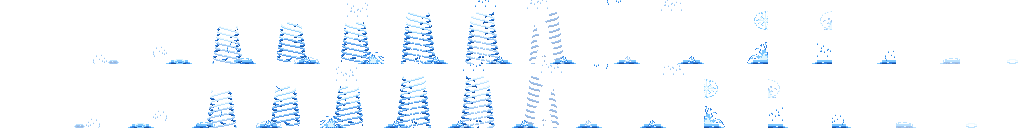
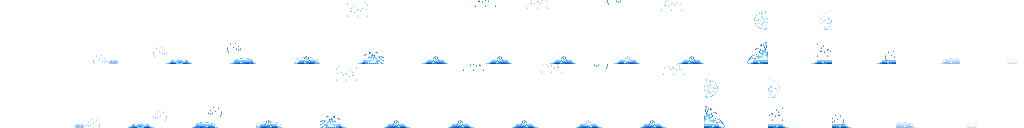
Water Dragon v3: serpent coils 1.5 turns round the caster (behind/in front) before arcing to the target; analytic dragon head and scaled body (serpent_draw3)
Claude-Session: https://claude.ai/code/session_01Szh5twrDqcGJwGExsJgbhd

Changed region(s): [[0.1875, 0.5938, 0.5625, 1.0], [0.1875, 0.0938, 0.5625, 0.5]]

diff --git a/tools/astro.py b/tools/astro.py
@@ -5360,6 +5360,150 @@ CLIPS['waterDragonSwallowed'] = ('Water Dragon Swallowed', 0,
                  11: [('wPuddleL', 'feet', 0, -1, _A(_FADE))]}))
 
 
+# Water Dragon v3 (Christopher 2026-11-05 15:38: the dragon needs to look better and swirl round the caster before arcing over to the target): a new look and a new path. Path: the serpent bursts out of the pool in front of the caster, coils 1.5 turns up round the caster's body (passing behind it on the far side, in front of it on the near side) to rear high above it, then arcs over to the target. Look: a proper dragon head drawn analytically at any angle (long snout, hinged jaw with fangs, glowing eye under a brow ridge, branching horns, a mane of fins, two long whiskers), and a scaled tube body (chevron scales, ice ridge, deep belly, dorsal fins every 7 px, shimmering glints), darker where it passes behind the caster.
+def serpent_path3(rec, S, E):   # -> (P(u) -> (x, y, depth, tx, ty), uc): arc-length parametrised; u 0-uc the coil round the caster, uc-1 the arc to the target. S the pool point (rec['pool'] px in front of the caster's feet, on the floor), E the target's chest
+    c = rec['coil']; Cx = S[0] - rec.get('pool', 16); R = c['radius']; H = c['height']; tn = c['turns']
+    ph0 = math.asin(max(-1, min(1, (S[0] - Cx) / R))); pts = []
+    for i in range(301):
+        v = i / 300; ph = ph0 + 2 * math.pi * tn * v
+        pts.append((Cx + R * math.sin(ph) * (1 - 0.25 * v), S[1] - H * v ** 0.85, math.cos(ph)))
+    T = pts[-1]; dx_, dy_ = pts[-1][0] - pts[-6][0], pts[-1][1] - pts[-6][1]; n_ = math.hypot(dx_, dy_) or 1
+    C1 = (T[0] + dx_ / n_ * 30, T[1] + dy_ / n_ * 30 - 10); C2 = (E[0] - 14, E[1] - rec.get('dive', 70))
+    for i in range(1, 301):
+        u = i / 300; d0 = T[2] + (1 - T[2]) * min(1, u / 0.25)
+        pts.append(tuple((1 - u) ** 3 * T[j] + 3 * (1 - u) ** 2 * u * C1[j] + 3 * (1 - u) * u * u * C2[j] + u ** 3 * E[j] for j in (0, 1)) + (d0,))
+    L = [0.0]
+    for a, b in zip(pts, pts[1:]): L.append(L[-1] + math.hypot(b[0] - a[0], b[1] - a[1]))
+    tot = L[-1]; uc = L[300] / tot
+    def P(u):
+        s = max(0.0, min(1.0, u)) * tot; import bisect
+        i = min(len(pts) - 2, max(0, bisect.bisect_right(L, s) - 1)); f = (s - L[i]) / max(1e-6, L[i + 1] - L[i])
+        a, b = pts[i], pts[i + 1]; tx, ty = b[0] - a[0], b[1] - a[1]; m = math.hypot(tx, ty) or 1
+        return (a[0] + (b[0] - a[0]) * f, a[1] + (b[1] - a[1]) * f, a[2] + (b[2] - a[2]) * f, tx / m, ty / m)
+    P.tot = tot
+    return P, uc
+def _seg_d(px, py, ax, ay, bx, by):
+    vx, vy = bx - ax, by - ay; t = max(0, min(1, ((px - ax) * vx + (py - ay) * vy) / (vx * vx + vy * vy or 1)))
+    return math.hypot(px - ax - vx * t, py - ay - vy * t)
+def _in_poly(x, y, poly):
+    ins = False; j = len(poly) - 1
+    for i in range(len(poly)):
+        xi, yi = poly[i]; xj, yj = poly[j]
+        if (yi > y) != (yj > y) and x < (xj - xi) * (y - yi) / (yj - yi) + xi: ins = not ins
+        j = i
+    return ins
+def dragon_head3(lay, cx, cy, tx, ty, jaw, k=0, s=1.25, dark=False):   # the dragon's head at (cx, cy) heading along (tx, ty); jaw 0-1 open; local frame: f forward, n up (screen-upward side)
+    nx, ny = ty, -tx
+    if ny > 0: nx, ny = -nx, -ny
+    hexc = lambda c: tuple(int(NPAL[c][i:i + 2], 16) for i in (1, 3, 5)) + (255,)
+    a = -0.6 * jaw; ca, sa = math.cos(a), math.sin(a)   # opens downward
+    def rj(p):   # the lower jaw rotated open about its hinge (3, -1)
+        f0, n0 = p[0] - 3, p[1] + 1; return (3 + f0 * ca - n0 * sa, -1 + f0 * sa + n0 * ca)
+    upper = [(-2, 5), (4, 5.6), (8, 4.4), (14, 3.0), (18, 2.8), (20, 1.6), (20, -0.6), (4, -0.8), (-2, -1)]
+    lower = [rj(p) for p in [(3, -1), (18, -1), (18, -2.4), (12, -3.4), (4, -4.4), (0, -3.5)]]
+    mouth = [(3, -1), (19, -0.8), rj((18, -1)), rj((4, -1.2))]
+    horns = [((-3, 4.5), (-13, 11)), ((-8, 7.6), (-9, 12)), ((-1, 4), (-11, 7)), ((-6.5, 5.6), (-7, 9))]
+    sway = math.sin(k * 1.1) * 1.5
+    whisk = [[(17, 0.3), (12, -5), (4, -8 + sway), (-6, -9 + sway), (-14, -7 + sway)], [(16, 1.8), (11, 5.5), (2, 9 - sway), (-6, 13 - sway)]]
+    fins = [[(-1, 4.2), (-9, 3 + sway * 0.5), (-4, 1.5)], [(-3, 1), (-12, -1 + sway * 0.5), (-5, -2.2)], [(-2, -2.5), (-9, -6 + sway * 0.5), (-1, -4)]]
+    R = int(22 * s); X0, Y0 = int(cx) - R, int(cy) - R; W_, H_ = lay.size; lp = lay.load(); got = {}
+    for yy in range(2 * R + 1):
+        for xx in range(2 * R + 1):
+            X, Y = X0 + xx, Y0 + yy
+            if not (0 <= X < W_ and 0 <= Y < H_): continue
+            dx, dy = (X - cx) / s, (Y - cy) / s; f = dx * tx + dy * ty; n = dx * nx + dy * ny
+            ch = None
+            if any(_in_poly(f, n, q) for q in fins): ch = 'A' if dark else 'a'
+            for (p, q) in horns:
+                if _seg_d(f, n, p[0], p[1], q[0], q[1]) < 0.9: ch = 'W' if math.hypot(f - q[0], n - q[1]) < 1.6 else 'I'
+            if ((f + 1) / 6.5) ** 2 + (n / 5.2) ** 2 <= 1 or _in_poly(f, n, upper): ch = 'U'
+            if _in_poly(f, n, lower): ch = 'L'
+            if _in_poly(f, n, mouth) and jaw > 0.05: ch = 'M'
+            for wl in whisk:
+                if any(_seg_d(f, n, *wl[i], *wl[i + 1]) < 0.55 for i in range(len(wl) - 1)): ch = ch or 'I'
+            if ch: got[(X, Y)] = (ch, f, n)
+    for (X, Y), (ch, f, n) in got.items():
+        edge = any((X + a_, Y + b_) not in got for a_, b_ in ((1, 0), (-1, 0), (0, 1), (0, -1)))
+        if ch == 'U':
+            c = 'n' if edge else 'I' if n > 3.3 or (n > 1.2 and f > 15) else 'W' if abs(f - 5) < 1.3 and abs(n - 3.4) < 0.8 else 'a'
+            if math.hypot(f - 4.6, n - 2.0) < 0.9: c = 'W'                       # the eye, glowing white
+            elif math.hypot(f - 4.6, n - 2.0) < 1.6: c = 'I'
+            elif math.hypot(f - 16.6, n - 1.9) < 0.6: c = 'n'                    # nostril
+            elif abs(n - 3.9) < 0.6 and 2 < f < 8: c = 'A'                         # brow ridge
+            elif 6 < f < 19 and -0.8 < n < 0.4 and int(f) % 3 == 0: c = 'W'   # upper fangs
+            if dark and c in 'aI': c = {'a': 'A', 'I': 'a'}[c]
+        elif ch == 'L':
+            c = 'n' if edge else 'W' if 6 < f < 18 and int(f) % 3 == 1 and _in_poly(f, n + 0.9, lower) is False else 'A'
+        elif ch == 'M': c = 'n'
+        else: c = 'n' if edge and ch in 'aA' else ch
+        lp[X, Y] = hexc(c)
+def serpent_draw3(img, rec, k, S, E, flip=False, layer='all', occl=None):   # reference drawing of a v3 extra.serpent (coil) for frame k; layer 'behind' (the parts behind the caster, depth < 0; skips pixels where occl, the caster's own silhouette, is drawn), 'front' or 'all'
+    from PIL import Image
+    fr = rec['frames'].get(str(k))
+    if not fr: return
+    uh, ut, jaw = fr[0], fr[1], fr[2] if len(fr) > 2 else 0.5
+    P, uc = serpent_path3(rec, S, E); hexc = lambda c: tuple(int(NPAL[c][i:i + 2], 16) for i in (1, 3, 5)) + (255,)
+    lay = Image.new('RGBA', img.size); lp = lay.load(); Wd, Hd = img.size; G = rec.get('girth', 7.0)
+    uhb = min(uh, 1.0 if uh <= 1 else rec.get('pourStop', 0.9)); tot = P.tot
+    want = (lambda d: d < 0) if layer == 'behind' else (lambda d: d >= 0) if layer == 'front' else (lambda d: True)
+    if uhb > ut:
+        n = max(2, int((uhb - ut) * tot / 0.7)); paint = {}
+        for i in range(n + 1):
+            u = ut + (uhb - ut) * i / n; x, y, d, tx, ty = P(u); w = (u - ut) / max(0.01, min(uh, 1.0) - ut)
+            r = 1.2 + G * max(0.0, min(1.0, w)) ** 0.6 * (1 - 0.25 * max(0, w - 0.9) * 10 if uh <= 1 else 1)
+            if not want(d): continue
+            nx, ny = ty, -tx
+            if ny > 0: nx, ny = -nx, -ny
+            sl = u * tot
+            for yy in range(int(y - r - 1), int(y + r + 2)):
+                for xx in range(int(x - r - 1), int(x + r + 2)):
+                    if 0 <= xx < Wd and 0 <= yy < Hd and (xx - x) ** 2 + (yy - y) ** 2 <= r * r:
+                        paint[(xx, yy)] = (sl, ((xx - x) * nx + (yy - y) * ny) / max(1, r), r, d)
+            if int(sl) % 7 == 0 and r > 3 and int(sl * 10) % 70 < 7:   # dorsal fins along the top side
+                for t in range(1, 5):
+                    for wv in range(-max(0, 2 - t // 2), max(0, 2 - t // 2) + 1):
+                        X, Y = round(x + nx * (r + t) - tx * (t * 0.8) + tx * wv * 0.5), round(y + ny * (r + t) - ty * (t * 0.8) + ty * wv * 0.5)
+                        if 0 <= X < Wd and 0 <= Y < Hd: paint.setdefault((X, Y), (sl, 2.0 if t < 4 else 3.0, r, d))
+        for (X, Y), (sl, dn, r, d) in paint.items():
+            if occl is not None and layer == 'behind' and occl.getpixel((X, Y))[3]: continue
+            edge = any((X + a_, Y + b_) not in paint for a_, b_ in ((1, 0), (-1, 0), (0, 1), (0, -1)))
+            back = d < 0
+            if dn >= 2: c = 'W' if dn >= 3 else ('a' if back else 'I')
+            elif edge: c = 'n'
+            elif dn > 0.6: c = 'a' if back else 'I'
+            elif dn < -0.5: c = 'n' if back else 'A'
+            elif ((sl - abs(dn) * r * 0.9) % 5) < 1.0: c = 'n' if back else 'A'      # chevron scales pointing at the head
+            elif ((sl + 3 * k) % 11) < 1.0 and dn > 0.1: c = 'I' if back else 'W'   # glints running along the back
+            else: c = 'A' if back else 'a'
+            lp[X, Y] = hexc(c)
+        for j in range(0, int((uhb - ut) * tot), 13):   # drops shed off the belly
+            u = ut + j / tot; x, y, d, tx, ty = P(u)
+            if not want(d): continue
+            for q in (4, 7, 11):
+                X, Y = int(x - tx * q * 0.3), int(y + 6 + q + (k % 3))
+                if 0 <= X < Wd and 0 <= Y < Hd and (X, Y) not in paint: lp[X, Y] = hexc('a' if q < 11 else 'I')
+    if uh <= 1.0:
+        x, y, d, tx, ty = P(uh)
+        if want(d): dragon_head3(lay, x + tx * 6, y + ty * 6, tx, ty, jaw, k, rec.get('headScale', 1.25), dark=d < 0)
+    if flip: lay = lay.transpose(Image.FLIP_LEFT_RIGHT)
+    img.alpha_composite(lay)
+_WD2 = CLIPS['waterDragon']; _WX = _WD2[6]
+CLIPS['waterDragon'] = (_WD2[0], 13, _WD2[2].replace('Water Dragon v2 (', 'Water Dragon v3 (').replace('the serpent bursts up out of the pool, horned head rising and rearing high over the caster, jaws opening; it holds both arms overhead, trembling, while the serpent rears and roars over it, then coils back to strike',
+    'the serpent bursts up out of the pool and swirls up round the fighter\'s body, one and a half turns, passing behind it and in front of it as it climbs, horned head rising and rearing high above it, jaws opening; it holds both arms overhead, trembling, while the serpent rears and roars over it, then draws back to strike'),
+  _WD2[3], _WD2[4], _WD2[5],
+  {**_WX, 'extra': {**_WX['extra'], 'serpent': {
+     'rule': 'Water Dragon v3 (Christopher 2026-11-05 15:38: the dragon must look better and swirl round the caster before arcing over to the target). Drawn by the testbed each frame; reference implementation astro.serpent_draw3 (port it). Path (scene px, mirrored for W): S = the pool, pool px in front of the caster\'s feet on the floor; E = the target\'s chest (26 px above its floor). First a coil round the caster: centre x = S.x - pool, angle ph from asin((S.x - centre)/radius) through turns * 360 degrees, x = centre + radius * sin(ph) * (1 - 0.25 v), y = S.y - height * v^0.85 for v 0-1, depth cos(ph) (< 0: behind the caster, drawn behind it and darker; >= 0 in front); then a cubic arc from the coil top T (C1 30 px on along the coil\'s last heading and 10 px up, C2 14 px short of E and dive px above it) to E, its depth easing to front. u is arc length along the whole path (0-1). frames[k] = [uHead, uTail, jaw 0-1]: body = a tube from uTail to min(uHead, 1) (pourStop once uHead > 1), radius 1.2 at the tail growing to 1.2 + girth at the head end; per pixel: outline n, top (dn > 0.6) ice I, belly (dn < -0.5) deep A, chevron scales A every 5 px along, glints W running along the back (+3 px per frame), dorsal fins every 7 px (I, white tips), drops falling off the belly; behind-the-caster parts use the darker set (A body, a top, n scales/belly). Head (dragon_head3, headScale) drawn 6 px ahead of uHead along the heading while uHead <= 1: long snout, hinged lower jaw (jaw opens it), white fangs, glowing white eye under a deep brow, two branching ice horns, a mane of three fins and two long whiskers swaying per frame.',
+     'pool': 16, 'coil': {'radius': 18, 'height': 84, 'turns': 1.5}, 'dive': 70, 'girth': 7, 'headScale': 1.8, 'pourStop': 0.9,
+     'frames': {'3': [0.03, 0.0, 0.2], '4': [0.08, 0.0, 0.2], '5': [0.15, 0.0, 0.4], '6': [0.23, 0.0, 0.5], '7': [0.31, 0.0, 0.8], '8': [0.37, 0.0, 1.0], '9': [0.41, 0.0, 1.0], '10': [0.39, 0.0, 0.6],
+                '11': [0.6, 0.02, 1.0], '12': [0.74, 0.06, 1.0], '13': [1.0, 0.22, 0.1], '14': [1.25, 0.5, 0.0], '15': [1.5, 0.8, 0.0]}}}})
+_WA3 = {k: [it for it in v if not it[0].startswith('wSpout')] for k, v in CLIPS['waterDragon'][6]['anchored'].items()}
+CLIPS['waterDragon'][6]['anchored'] = {k: v for k, v in _WA3.items() if v}   # v3: the serpent's own coil swirls round the caster, so the Tsunami spout is gone
+_sd_v1 = serpent_draw
+def serpent_draw(img, rec, k, S, E, flip=False, layer='all', occl=None):   # dispatch: v3 coil records to serpent_draw3, older records to the v1/v2 drawing (front only)
+    if rec.get('coil'): return serpent_draw3(img, rec, k, S, E, flip, layer, occl)
+    if layer != 'behind': return _sd_v1(img, rec, k, S, E, flip)
+
+
 # ---------- Pisces (Water) genjutsu v1 (part 16, 2026-11-05): Siren's Lure, Escapism ----------
 # Pisces genjutsu are songs: notes of water flow from the singer's mouth and palm to the target (testbed projectile volley, impact-frame rule)
 def _note(n, cols='aIn'):   # a musical note of water: n 1 an eighth note, n 2 two beamed notes; cols = head, highlight, outline

diff --git a/tools/astro_scene.py b/tools/astro_scene.py
@@ -194,7 +194,14 @@ for t in range(n):
     TOP = int((arg('--top', 1) or [0])[0])   # Water Dragon v2: headroom above the fighters so the rearing serpent is not clipped (the testbed has the map above them)
     if TOP:
         c2 = Image.new('RGBA', (CW, 64 + TOP), (0xc8, 0xcd, 0xd7, 255)); c2.alpha_composite(c, (0, TOP)); c = c2
-    if sp_ and t < na: astro.serpent_draw(c, sp_, t, (X0 + 33 + 16, 59 + TOP), (4 + GAP + 30, 37 + TOP))
+    if sp_ and t < na:
+        S_, E_ = (X0 + 33 + 16, 59 + TOP), (4 + GAP + 30, 37 + TOP)
+        if sp_.get('coil'):   # Water Dragon v3: the coil passes behind the caster (drawn only where the caster is not) and in front of it
+            S_ = (X0 + 33 + sp_.get('pool', 16), 62 + TOP)
+            me_ = Image.new('RGBA', (64, 64)); cell(A, ka, 'E', 0, me_, [l for l in LAY if l != 'fx'], who='caster')
+            occ = Image.new('RGBA', c.size); occ.alpha_composite(me_, (xa, TOP))
+            astro.serpent_draw(c, sp_, t, S_, E_, layer='behind', occl=occ); astro.serpent_draw(c, sp_, t, S_, E_, layer='front')
+        else: astro.serpent_draw(c, sp_, t, S_, E_)
     for pr in PR:
         pat, f0, nf, hp = pr[0], int(pr[1]), int(pr[2]), pr[3]; lay = 'far-arm' if len(pr) > 4 and pr[4] == 'farhand' and os.path.exists(os.path.join(anim, A, 'far-arm.png')) else 'arms'
         hx, hy = hand(A, f0, 'E', lay)
